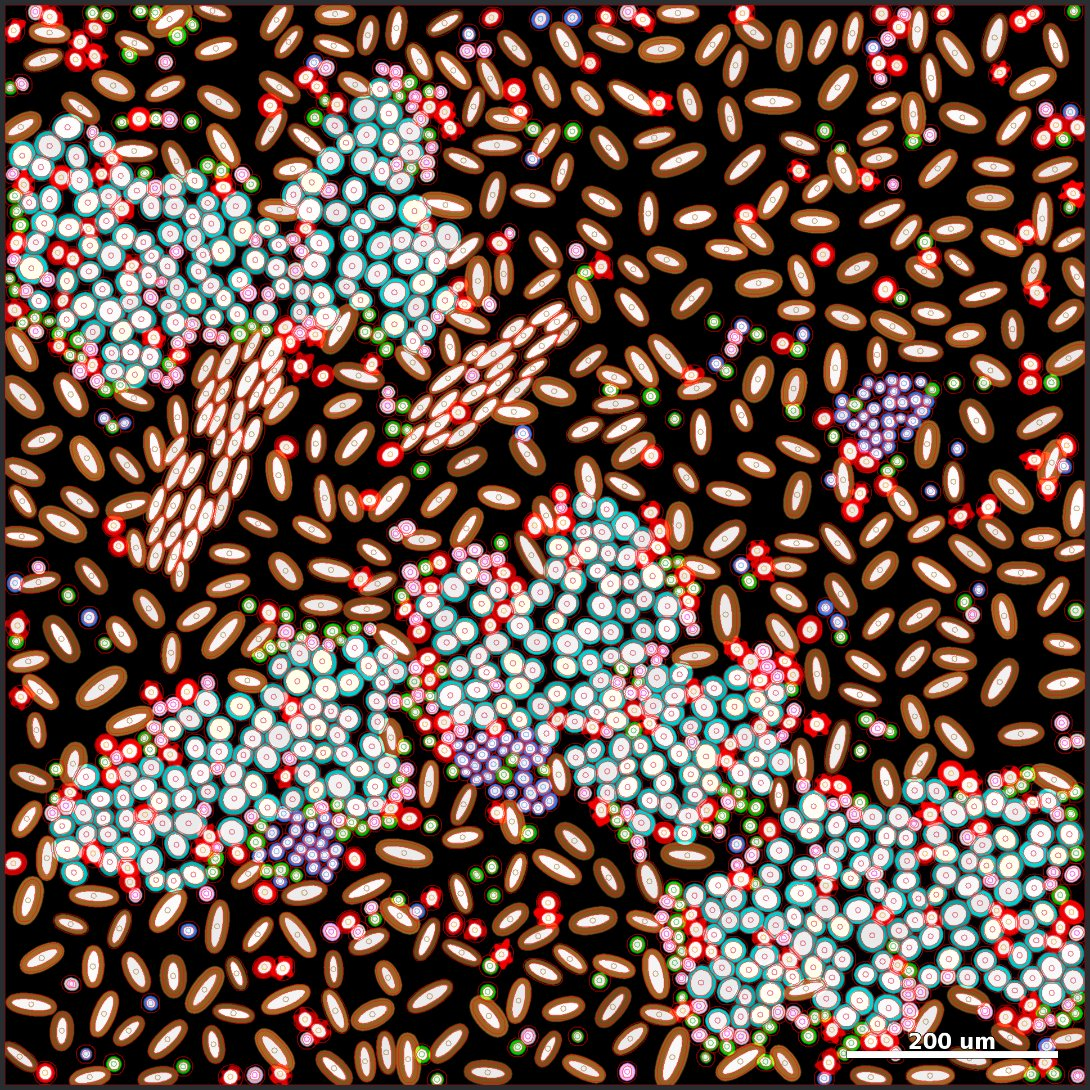
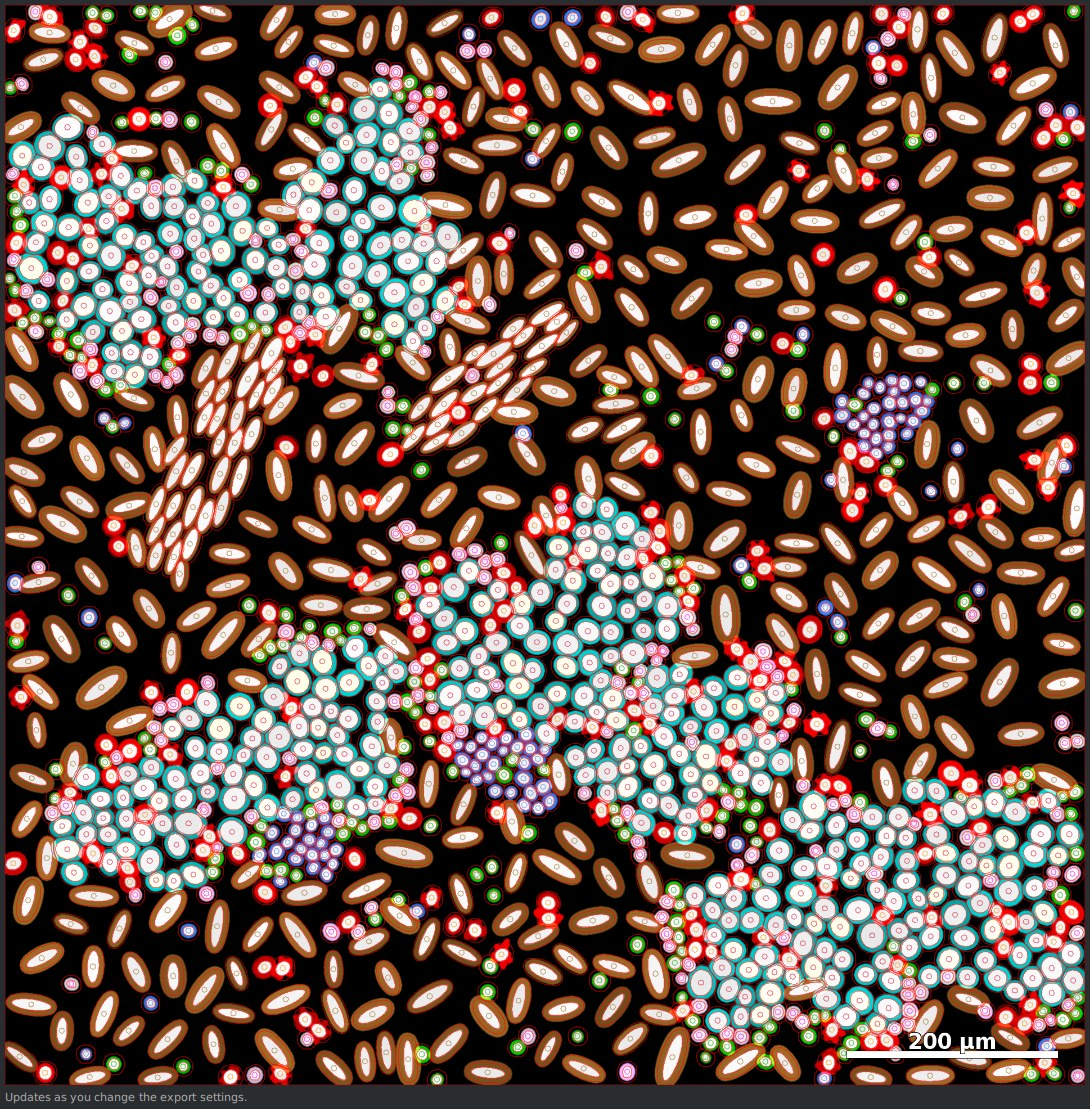
QuIET 1.2.15 and wand patch versions; retake the two QuIET result images
QuIET 1.2.15 writes scale bars as "200 µm" and keeps the preview window
up to date as settings change, so the preview capture (now with its status
line) and the 2x2 montage are re-taken from the v1.2 demo project with the
guide's own settings, driven through the real wizard. Text and alt text say
µm and mention the live preview. Version rows: QuIET 1.2.15, Wizard Wand
0.4.4, Polyline Wand 0.3.11 (the wand rows were missed in b89877b).

Claude-Session: https://claude.ai/code/session_011vsVaz6bucybYzteLzjXpH

diff --git a/docs/01-quiet-image-export.md b/docs/01-quiet-image-export.md
@@ -12,7 +12,7 @@ title: QuIET - QuPath Image Export Toolkit
 | | |
 |---|---|
 | **Repository** | [uw-loci/qupath-extension-image-export-toolkit](https://github.com/uw-loci/qupath-extension-image-export-toolkit) |
-| **Extension version** | 1.2.14 |
+| **Extension version** | 1.2.15 |
 | **License** | Apache-2.0 |
 | **Requires** | QuPath 0.7.0+, Java 21+ |
 | **Where to find it** | `Extensions > QuIET > Image Export...` and `Extensions > QuIET > Panel / Montage Export...` |
@@ -157,9 +157,11 @@ The **Object Overlays** and **Scale Bar** sections may be collapsed when you arr
 **Click a section's title** to open it.
 
 **Click Preview Current Image.** A window opens with the image as it will be exported: cell
-outlines, a colored dot on each cell, and a `200 um` scale bar in the lower right.
+outlines, a colored dot on each cell, and a `200 µm` scale bar in the lower right. The window
+stays up to date: change a setting in the wizard and the preview redraws within a second or
+so, as the line under the image says.
 
-<img src="../images/quiet/export-preview.jpg" alt="The Export Preview window: the synthetic tissue image tme_00 with every cell outlined and a colored ground-truth dot on each cell, and a white 200 um scale bar in the lower-right corner" width="560">
+<img src="../images/quiet/export-preview.jpg" alt="The Export Preview window: the synthetic tissue image tme_00 with every cell outlined and a colored ground-truth dot on each cell, and a white 200 µm scale bar in the lower-right corner. A line under the image reads Updates as you change the export settings" width="560">
 
 **Close the preview window**, then **click Next >**.
 
@@ -316,7 +318,7 @@ order.
 **Open `panel_figure.png`.** It looks like this: four panels drawn with the same recipe,
 lettered A to D, each with its own scale bar and its filename underneath.
 
-<img src="../images/quiet/panel-figure.jpg" alt="A 2 by 2 montage of four synthetic multiplex images with cell outlines and ground-truth dots, lettered A to D in white in the upper-left corners, each with a white 200 um scale bar at the lower right and its filename, tme_00.tif, tme_01.tif, tme_06.tif and tme_07.tif, in black underneath" width="640">
+<img src="../images/quiet/panel-figure.jpg" alt="A 2 by 2 montage of four synthetic multiplex images with cell outlines and ground-truth dots, lettered A to D in white in the upper-left corners, each with a white 200 µm scale bar at the lower right and its filename, tme_00.tif, tme_01.tif, tme_06.tif and tme_07.tif, in black underneath" width="640">
 
 ### What to notice
 

diff --git a/docs/06-polyline-wand.md b/docs/06-polyline-wand.md
@@ -12,7 +12,7 @@ title: Polyline Wand and Brush
 | | |
 |---|---|
 | **Repository** | [uw-loci/qupath-extension-polyline-wand](https://github.com/uw-loci/qupath-extension-polyline-wand) |
-| **Extension version** | 0.3.10 |
+| **Extension version** | 0.3.11 |
 | **License** | GPL-3.0 |
 | **Requires** | QuPath 0.6.0+ (use 0.7 today) |
 | **Where to find it** | Toolbar <img src="../images/icon-polyline-wand.png" alt="Polyline Wand toolbar icon" class="icon"> · **Shift+P** |

diff --git a/docs/05-wizard-wand.md b/docs/05-wizard-wand.md
@@ -12,7 +12,7 @@ title: Wizard Wand
 | | |
 |---|---|
 | **Repository** | [uw-loci/qupath-extension-wizard-wand](https://github.com/uw-loci/qupath-extension-wizard-wand) |
-| **Extension version** | 0.4.3 |
+| **Extension version** | 0.4.4 |
 | **License** | GPL-3.0 |
 | **Requires** | QuPath 0.6.0+ (use 0.7 today) |
 | **Where to find it** | Toolbar <img src="../images/icon-wizard-wand.png" alt="Wizard Wand toolbar icon" class="icon"> · **Shift+W** |
